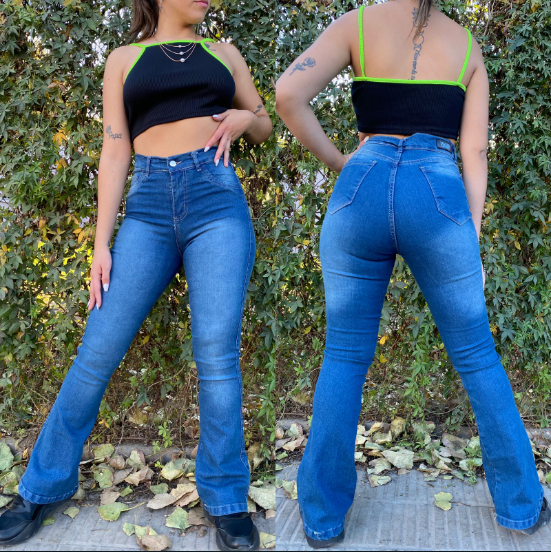
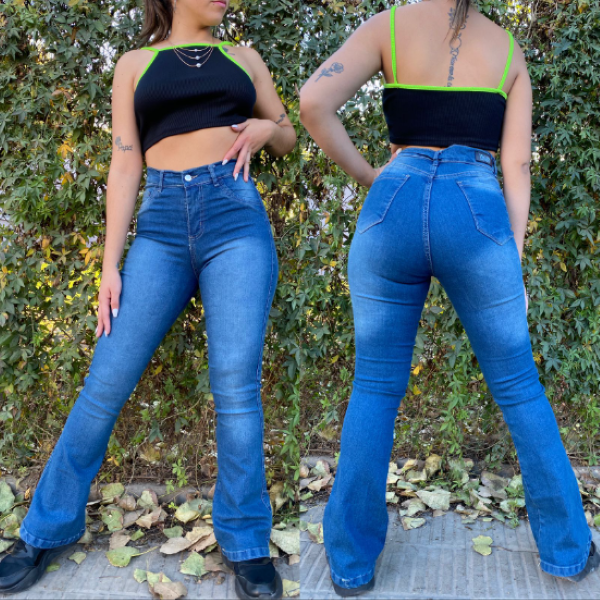
fix image sizes, and add new products

diff --git a/src/app/products.js b/src/app/products.js
@@ -1,6 +1,55 @@
 export const Jeans = {
   dama: [
     {
+      name: "Arenado gris elastizado",
+      src: "/products/dama-arenado-gris-elastizado-36a46.png",
+      talles: "36 a 46",
+      text: "Jean dama Arenado gris elastizado",
+      precio: 3899,
+    },
+    {
+      name: "Engomado tostado",
+      src: "/products/engomado-tostado-36a46.png",
+      talles: "36 a 46",
+      text: "Pantalón dama Engomado tostado",
+      precio: 3999,
+    },
+    {
+      name: "Negro elastizado con vista",
+      src: "/products/dama-negro-elastizado-vista-36a46.png",
+      talles: "36 a 46",
+      text: "Jean dama negro elastizado con vista",
+      precio: 3899,
+    },
+    {
+      name: "Hilo blanco elastizado",
+      src: "/products/negro-hilo-blanco-erlastizado-36a46.png",
+      talles: "36 al 46",
+      text: "Jean dama negro hilo blanco elastizado",
+      precio: 3899,
+    },
+    {
+      name: "Hilo blanco c/vista",
+      src: "/products/dama-vista-hilo-blanco-36a46.png",
+      talles: "36 al 46",
+      text: "Jean dama negro hilo blanco c/vista",
+      precio: 3899,
+    },
+    {
+      name: "Dama elastizado",
+      src: "/products/dama-elastizado-36a46.png",
+      talles: "36 al 46",
+      text: "Jean dama Hilo blanco elastizado",
+      precio: 3899,
+    },
+    {
+      name: "Elastizado tiro alto c/bolsillo",
+      src: "/products/dama-elastizado-tiroalto-bolsillo-36a46.png",
+      talles: "36 al 46",
+      text: "Jean dama Elastizado tiro alto c/bolsillo",
+      precio: 3899,
+    },
+    {
       name: "Elastizado c/bolsillo",
       src: "/products/dama-elastizadobolsillovista-36a46-2.png",
       talles: "36 a 46",
@@ -8,11 +57,67 @@ export const Jeans = {
       precio: 3599,
     },
     {
+      name: "Elastizado nevado c/bolsillo",
+      src: "/products/dama-bolsillo-vista-elastizado-nevado-36a46.png",
+      talles: "36 a 46. Solo x curva.",
+      text: "Jean dama Elastizado nevado c/bolsillo a la vista",
+      precio: 3599,
+    },
+    {
+      name: "Cargo negro rígido",
+      src: "/products/dama-cargo-negro-rigido-36a46.png",
+      talles: "36 a 46",
+      text: "Jean dama Cargo negro rígido",
+      precio: 5199,
+    },
+    {
+      name: "Económico elastizado",
+      src: "/products/dama-economico-elastizado-36a46.png",
+      talles: "36 a 46. Solo x curva.",
+      text: "Jean dama Económico elastizado",
+      precio: 3299,
+    },
+    {
+      name: "Azul elastizado Con vista",
+      src: "/products/dama-vista-azul-elastizado-36a46.png",
+      talles: "36 a 46.",
+      text: "Jean dama Azul elastizado Con vista",
+      precio: 3699,
+    },
+    {
+      name: "Mom negro rígido",
+      src: "/products/dama-mom-negro-rigido-36a46.png",
+      talles: "36 a 46",
+      text: "Jean dama Mom negro rígido",
+      precio: 4499,
+    },
+    {
       name: "Jean Gris c/bolsillo",
       src: "/products/dama-grisbolsillo-36a46.png",
       talles: "36 a 46",
       text: "Jean Gris c/bolsillo",
       precio: 3699,
+    },
+    {
+      name: "Locas Arenado azul",
+      src: "/products/dama-locas-arenado-azul-36a46.png",
+      talles: "36 a 46",
+      text: "Jean dama 'Locas' AArenado azul",
+      precio: 4399,
+    },
+    {
+      name: "Engomado negro elastizado",
+      src: "/products/dama-engomado-negro-elastizado-36a46.png",
+      talles: "36 a 46",
+      text: "Jean dama Engomado negro elastizado",
+      precio: 3999,
+    },
+    {
+      name: "Oxford arenado elastizado",
+      src: "/products/dama-oxford-arenado-elastizado-38a48.png",
+      talles: "38 a 48",
+      text: "Jean dama Oxford arenado elastizado",
+      precio: 4099,
     },
     {
       name: "Jean Elastizado Azul",
@@ -29,33 +134,41 @@ export const Jeans = {
       precio: 2999,
     },
     {
-      name: "Jean: Las Locas",
-      src: "/products/dama-laslocas-40a46-sq.png",
-      talles: "40 al 46",
-      text: "Jean Las Locas",
-      precio: 4199,
+      name: "Cargo Wide Leg",
+      src: "/products/dama-cargo-wide-leg-36a46-curva.png",
+      talles: "36 al 46. Solo x curva.",
+      text: "Jean Cargo Wide Leg con roturas",
+      precio: 5399,
     },
-    {
-      name: "Jean Oxfordd",
-      src: "/products/dama-oxford-38a48.png",
-      talles: "38 al 48",
-      text: "Jean Oxfordd de dama",
-      precio: 3899,
-    },
+    // {
+    //   name: "Jean: Las Locas",
+    //   src: "/products/dama-laslocas-40a46-sq.png",
+    //   talles: "40 al 46",
+    //   text: "Jean Las Locas",
+    //   precio: 4199,
+    // },
+
     {
       name: "Jean Negro c/bolsillo",
       src: "/products/dama-negrobolsillo-36a46.png",
       talles: "36 al 46",
       text: "Jean negro de dama con bolsillos",
-      precio: 3699,
+      precio: 3899,
     },
     {
-      name: "Las Locas (Gris)",
-      src: "/products/dama-locas-gris-36a46-sq.png",
+      name: "Nevado oscuro elastizado c/bolsillo",
+      src: "/products/dama-nevado-oscuro-elastizado-bolsillo-36a46.png",
       talles: "36 al 46",
-      text: "Jean Las Locas - Gris",
-      precio: 4199,
+      text: "Jean dama Nevado oscuro elastizado c/bolsillo",
+      precio: 3899,
     },
+    // {
+    //   name: "Las Locas (Gris)",
+    //   src: "/products/dama-locas-gris-36a46-sq.png",
+    //   talles: "36 al 46",
+    //   text: "Jean Las Locas - Gris",
+    //   precio: 4199,
+    // },
     {
       name: "Jean nevado",
       src: "/products/dama-nevado-elastizado-sq.png",
@@ -70,8 +183,64 @@ export const Jeans = {
       text: "Jean nevado elastizado",
       precio: 2999,
     },
+    {
+      name: "Talle especial elastizado",
+      src: "/products/mujer-especial-elastizado-48a56.png",
+      talles: "48 al 56",
+      text: "Jean dama especial elastizado",
+      precio: 4499,
+    },
+    {
+      name: "Talle especial negro elastizado",
+      src: "/products/dama-especial-negro-elastizado-48a56.png",
+      talles: "48 al 56",
+      text: "Jean dama especial negro elastizado",
+      precio: 4699,
+    },
+    {
+      name: "Jean Oxfordd",
+      src: "/products/dama-oxford-38a48.png",
+      talles: "38 al 48. Agotado.",
+      text: "Jean Oxfordd de dama",
+      precio: 0,
+    },
   ],
   hombre: [
+    {
+      name: "Localizado azúl semichupín",
+      src: "/products/hombre-localizado-azul-semichupin-40a48.png",
+      talles: "40 al 48",
+      text: "Jean hombre Localizado azúl semichupín",
+      precio: 4199,
+    },
+    {
+      name: "Negro elastizado",
+      src: "/products/hombre-negro-elastizado-38a48.png",
+      talles: "38 al 48",
+      text: "Jean hombre Negro elastizado",
+      precio: 4399,
+    },
+    {
+      name: "Jogger gris rígido",
+      src: "/products/hombre-jogger-gris-rigido-38a48-curva.png",
+      talles: "40 al 48",
+      text: "Jean hombre Jogger gris rígido",
+      precio: 4999,
+    },
+    {
+      name: "Azul hilo blanco semichupín",
+      src: "/products/hombre-azul-hilo-blacno-semichupin-40a48.png",
+      talles: "40 al 48",
+      text: "Jean hombre Azul hilo blanco semichupín",
+      precio: 4199,
+    },
+    {
+      name: "Corte Chino negro",
+      src: "/products/hombre-corte-chino-negro-38a48.png",
+      talles: "38 al 48. Solo x curva.",
+      text: "Jean hombre Corte Chino negro",
+      precio: 4699,
+    },
     {
       name: "Cargo Jogger",
       src: "/products/hombre-cargojogger-38a46-sq.png",
@@ -80,25 +249,40 @@ export const Jeans = {
       precio: 5199,
     },
     {
+      name: "Cargo Jogger Celeste",
+      src: "/products/hombre-cargo-jogger-celeste-38a48.png",
+      talles: "38 al 48",
+      text: "Jean Cargo Jogger celeste de Hombre",
+      precio: 5499,
+    },
+
+    {
+      name: "Jogger rígido nevado roto",
+      src: "/products/hombre-jogger-rigido-nevado-roto-38a48.png",
+      talles: "38 al 48. Solo x curva.",
+      text: "Jean Jogger rígido nevado roto",
+      precio: 4999,
+    },
+    {
       name: "Jeans Talle Grande",
       src: "/products/hombre-grande-50a58.png",
       talles: "50 al 58",
       text: "Jeans de hombre, talles especiales",
-      precio: 4999,
+      precio: 5299,
     },
     {
       name: "Clásico rígido",
       src: "/products/hombre-clasicorigido-42a52-sq.png",
-      talles: "42 al 52",
-      text: "Jean rígido clásico",
-      precio: 4799,
+      talles: "50 y 52",
+      text: "Jean rígido clásico, dos tonos",
+      precio: 5199,
     },
     {
       name: "Elastizado Talle Grande",
       src: "/products/hombre-elastizado-50a58-sq.png",
       talles: "50 al 58",
       text: "Talles grandes",
-      precio: 4999,
+      precio: 5299,
     },
     {
       name: "Mom Rígido con roturas",
@@ -108,10 +292,17 @@ export const Jeans = {
       precio: 4499,
     },
     {
+      name: "Jogger rìgido con puño",
+      src: "/products/hombre-jogger-rigido-puño-cargo-arenado-liso-38a48.png",
+      talles: "38 al 48",
+      text: "Jean hombre ogger rìgido con puño cargo arenado y liso",
+      precio: 5499,
+    },
+    {
       name: "Rígido Liso",
       src: "/products/hombre-rigido-liso-42a52-sq.png",
-      talles: "38 al 48",
-      text: "Mom con roturas para hombre",
+      talles: "42 al 52",
+      text: "Rígido liso de hombre",
       precio: 4799,
     },
   ],

diff --git a/src/app/layout.js b/src/app/layout.js
@@ -14,7 +14,7 @@ export default function RootLayout({ children }) {
     <html lang="es">
       <body className={inter.className}>
         <div className="z-10 w-full items-center font-mono flex flex-col text-center">
-          <div className="border-b w-full text-center border-gray-300 p-2 text-white text-xs md:text-base">
+          <div className="border-b w-full text-center border-gray-300 p-2 text-white text-xs md:text-base bg-slate-800">
             Jeans de calidad. Precios increíbles. Venta solo por Mayor.{" "}
           </div>
           

diff --git a/src/app/components/GridComponent.jsx b/src/app/components/GridComponent.jsx
@@ -11,7 +11,7 @@ const GridComponent = ({name, src, text, talles,precio}) => {
             alt={text}
             width={800}
             height={800}
-            className="gridImage imagen-filtro rounded-2xl h-full border-2 border-slate-400"  
+            className="rounded-2xl h-80 border-2 border-slate-400"  
             />
         </div>
         <p className="text-base italic ">{talles}</p>
